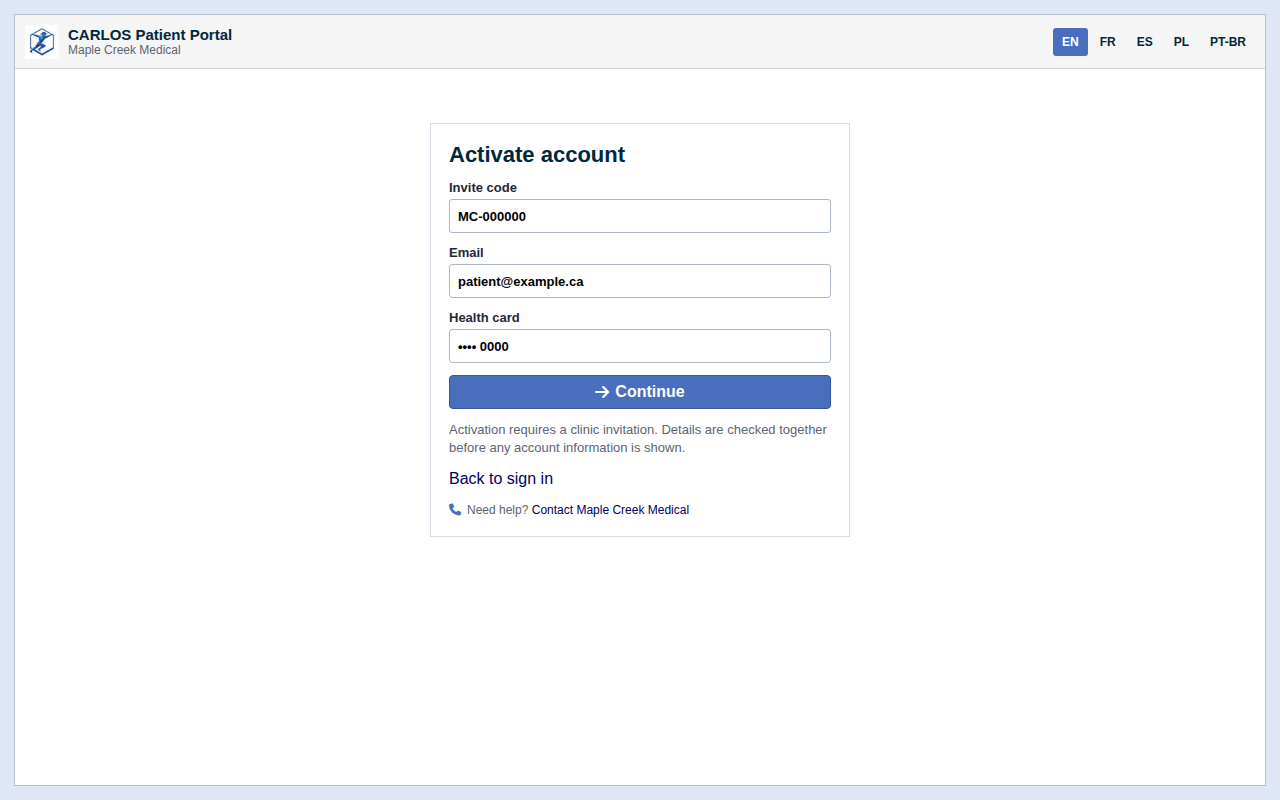
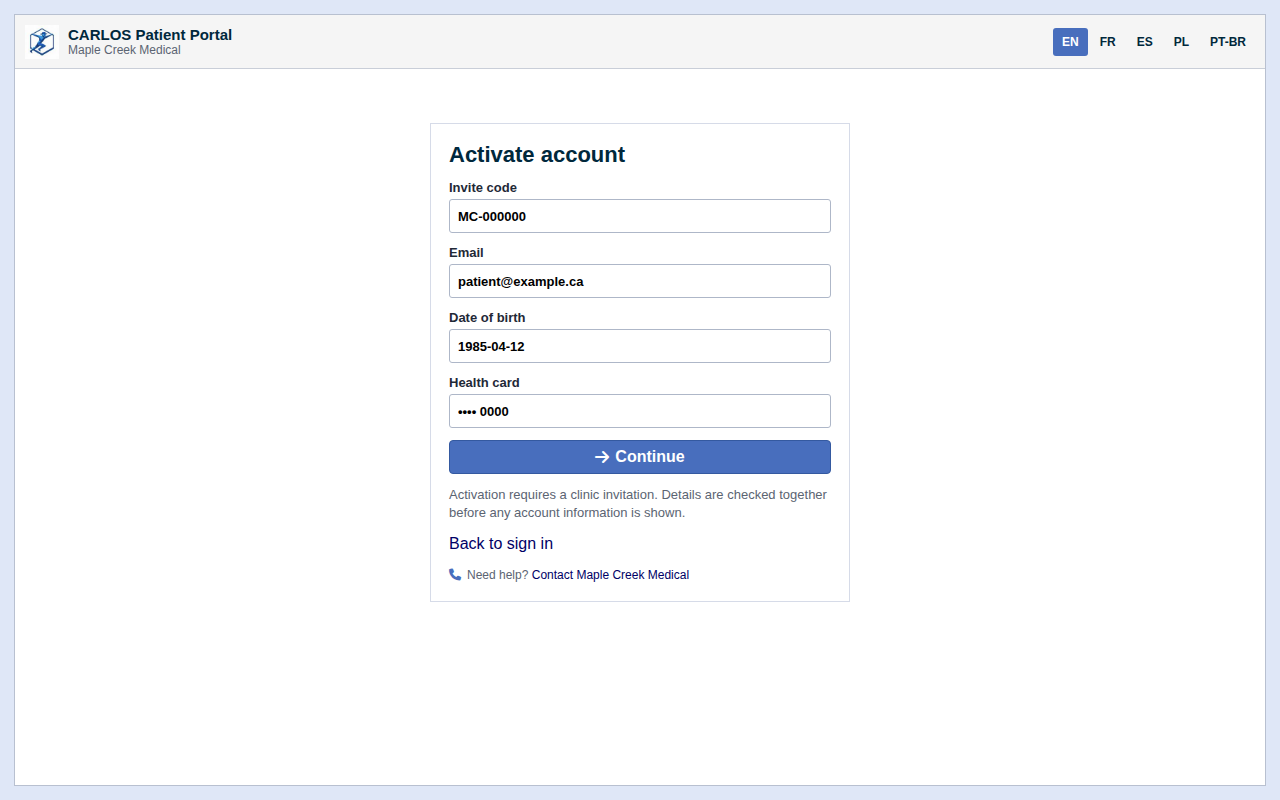
docs: add DOB to portal activation mock

Changed region(s): [[0.3438, 0.4688, 0.6562, 0.75], [0.3438, 0.375, 0.4062, 0.4375]]

diff --git a/patient-portal-mocks/index.html b/patient-portal-mocks/index.html
@@ -137,6 +137,10 @@
                 <input type="email" value="patient@example.ca" autocomplete="email">
               </label>
               <label>
+                <span>Date of birth</span>
+                <input type="text" value="1985-04-12" inputmode="numeric" autocomplete="bday">
+              </label>
+              <label>
                 <span>Health card</span>
                 <input type="text" value="•••• 0000" autocomplete="off">
               </label>
